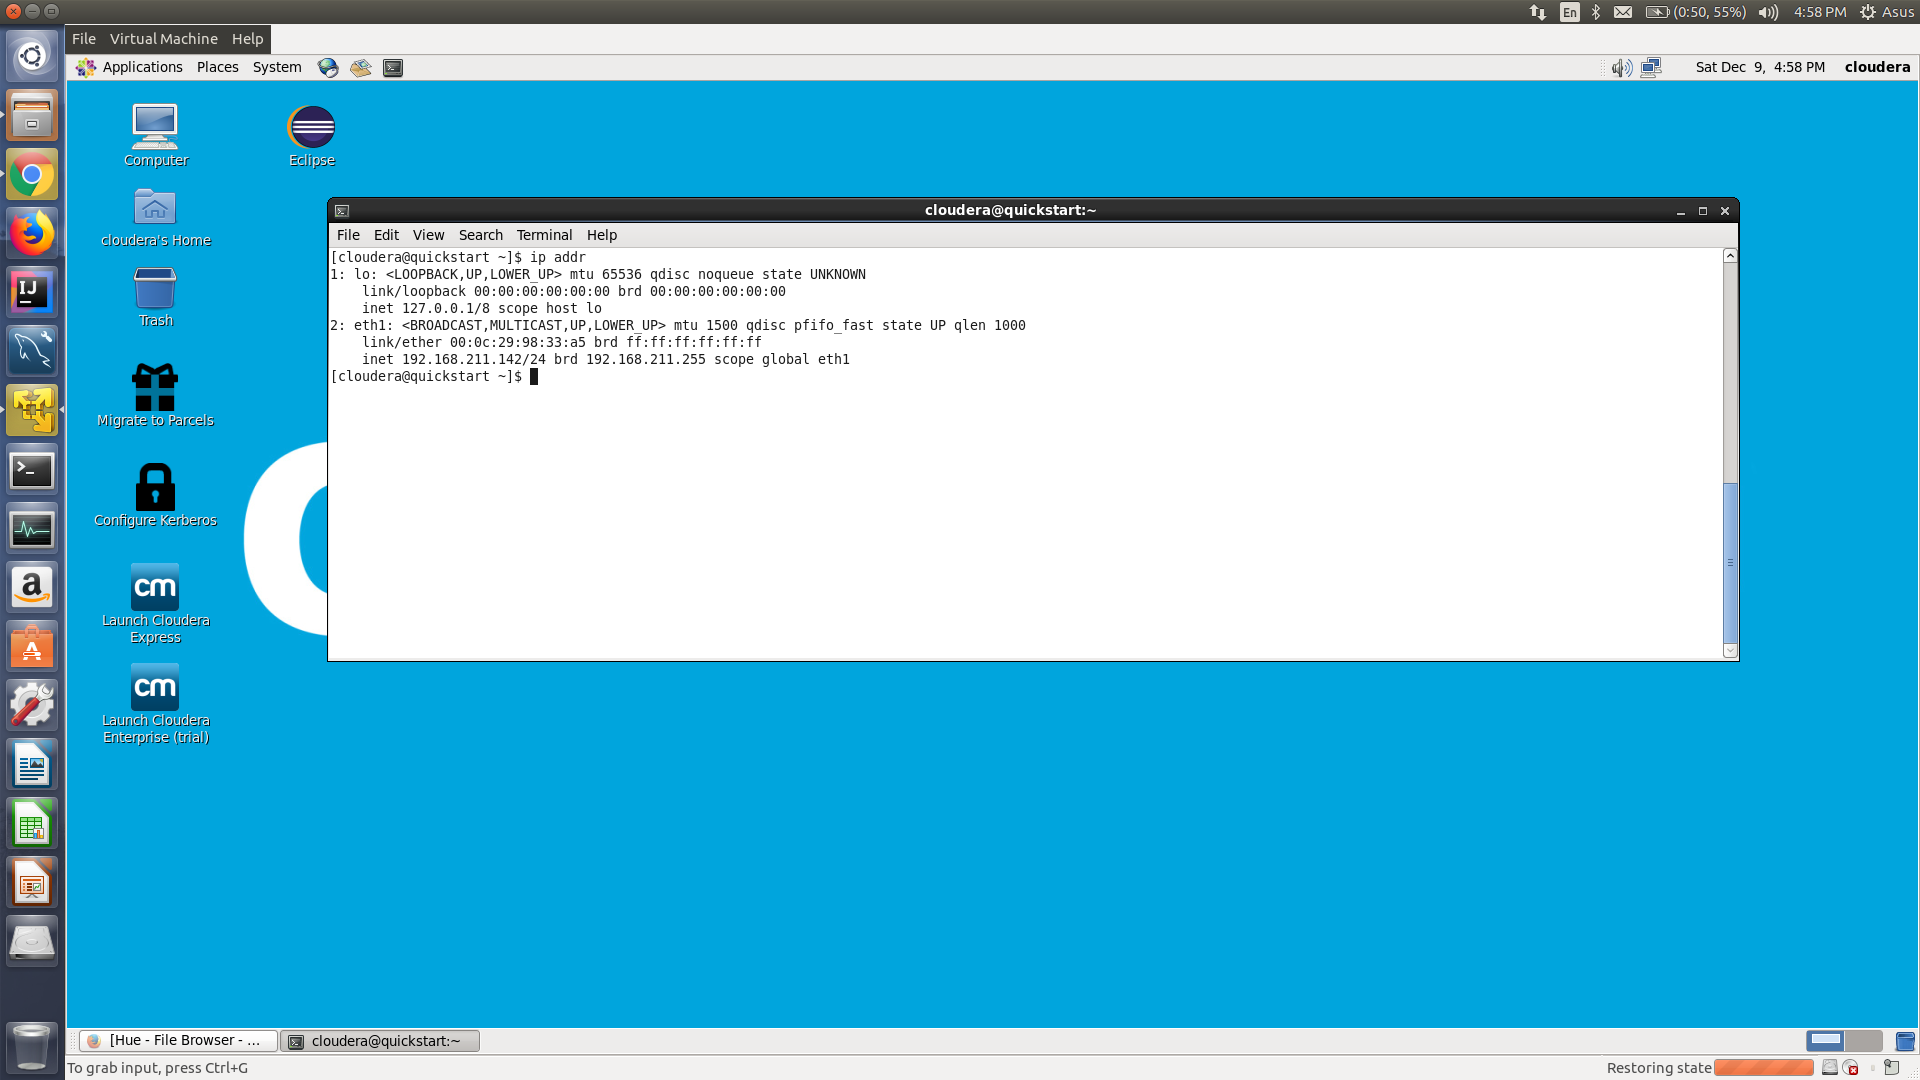
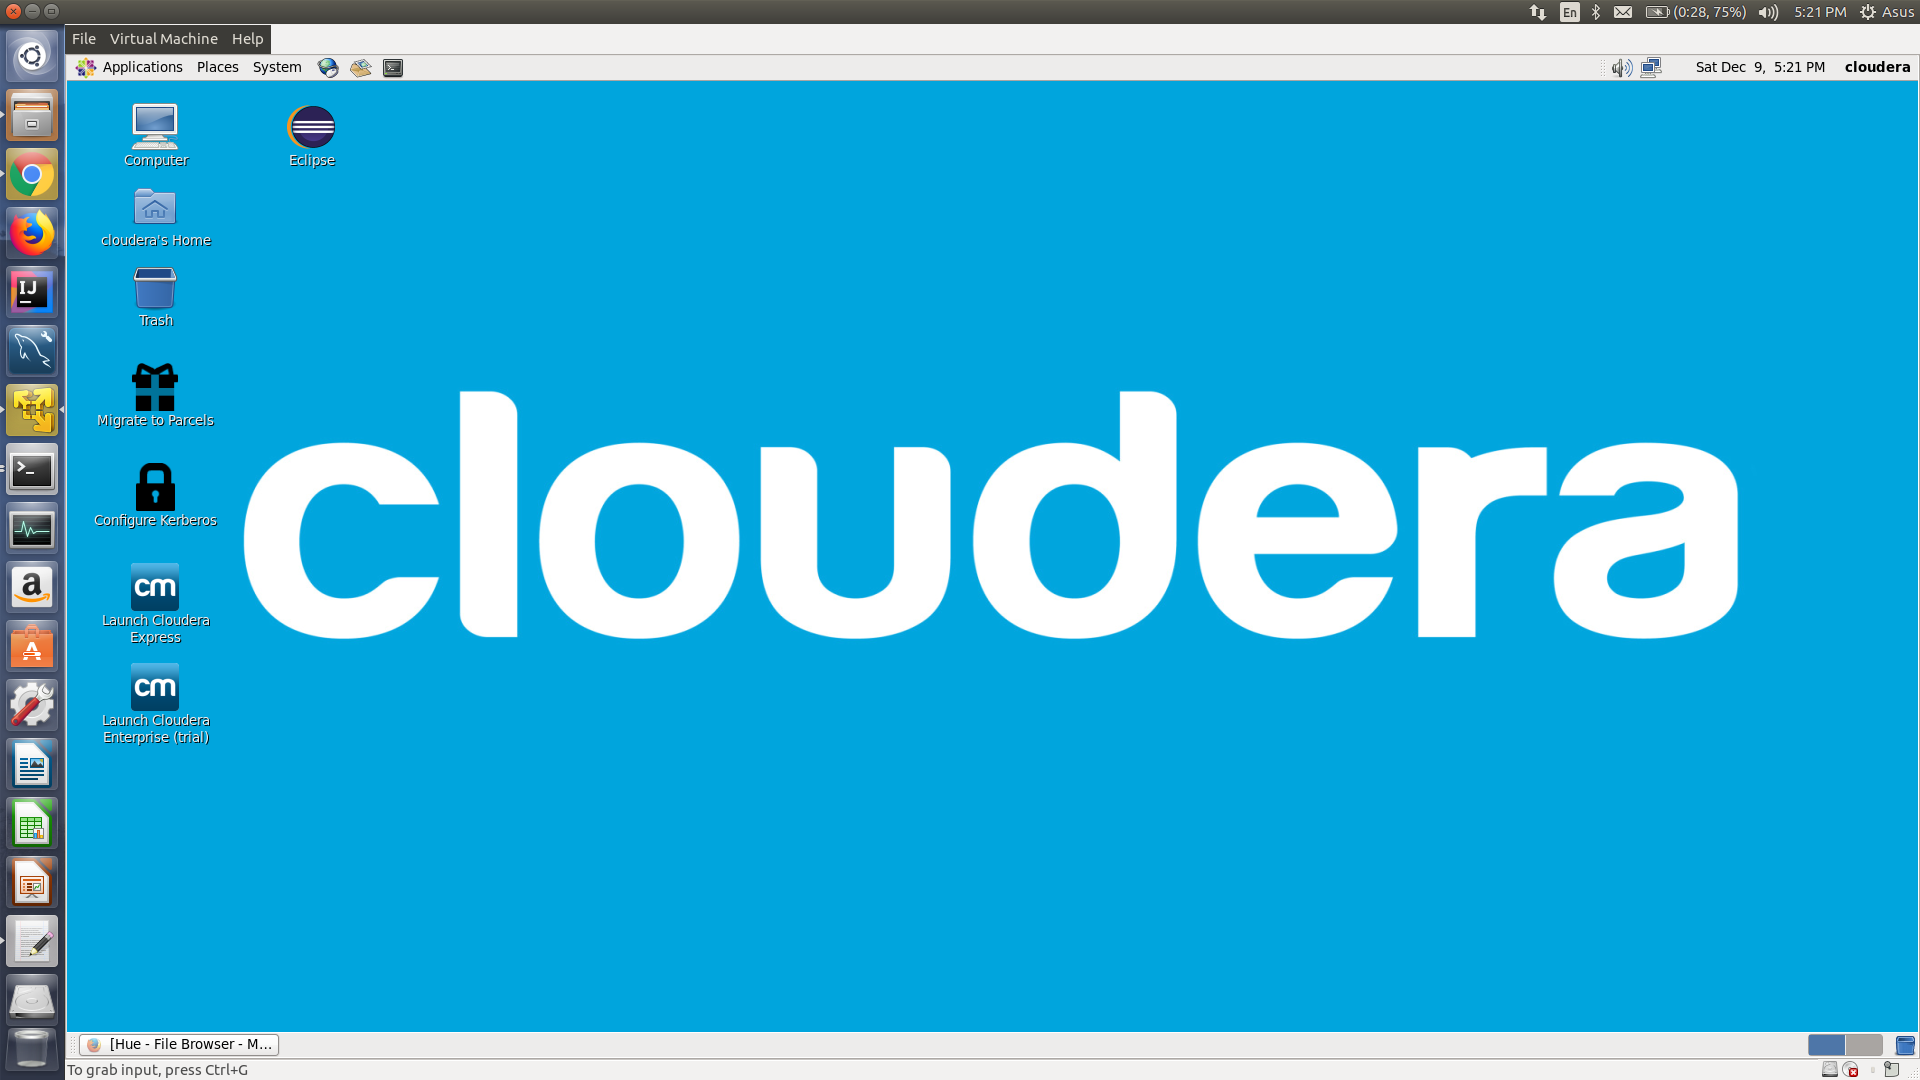
Updated files

Changed region(s): [[0.1562, 0.1833, 0.9062, 0.6111], [0.0, 0.825, 1.0, 1.0], [0.0, 0.3972, 0.0312, 0.4583]]

diff --git a/quickstart-vm-setup/cloudera/README.md b/quickstart-vm-setup/cloudera/README.md
@@ -8,7 +8,7 @@
 * Configure/Start Cloudera QuickStart VM under VMWare player by allocating below minimum required resources to VM
   * 8 GB of RAM 
   * 2 Cores/CPU
-* Explore Cloudera QuickStart VM by refering below screenshots:
+* Explore Cloudera QuickStart VM by referring below screenshots:
 
 ![Alt text](images/vmware_start.png?raw=true "Start - VMWare")
 
@@ -16,7 +16,11 @@
 
 ![Alt text](images/vmware_quickstart_cloudera_settings.png?raw=true "Settings for Cloudera Quickstart VM")
 
-![Alt text](images/vmware_quickstart_cloudera_home.png?raw=true "Cloudera Quickstart VM Home")
+![Alt text](images/vmware_quickstart_cloudera_home.png?raw=true "Home for Cloudera Quickstart VM")
+
+* Find out IP Address of configured Cloudera Quickstart VM by referring below screenshot:
+
+![Alt text](images/vmware_quickstart_cloudera_ip.png?raw=true "Cloudera Quickstart VM - Find out IP Address")
 
 ### Verification:
 
